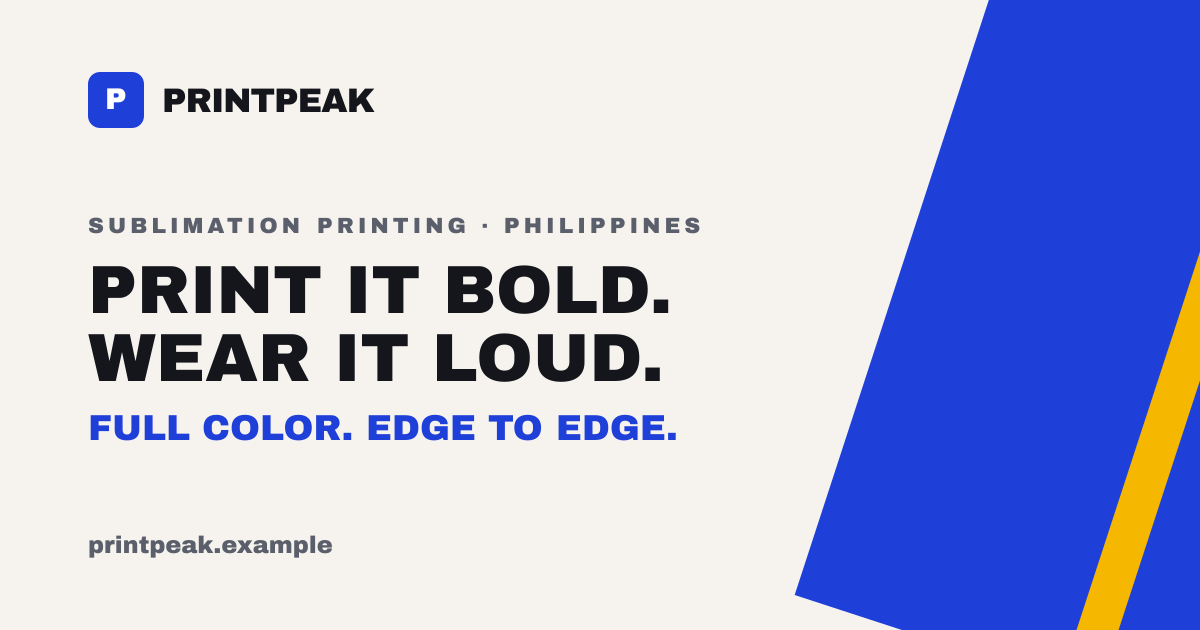
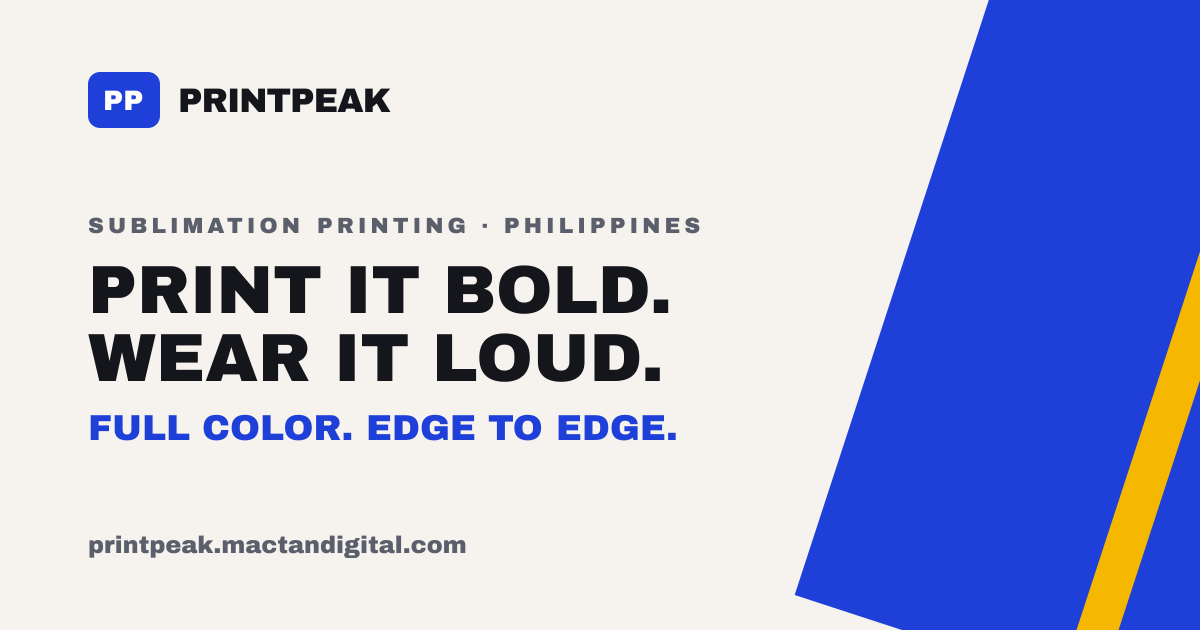
Use live domain printpeak.mactandigital.com and add preview link to README

Changed region(s): [[0.0925, 0.1206, 0.3392, 0.2111], [0.185, 0.8444, 0.4008, 0.9048]]

diff --git a/src/content/site.ts b/src/content/site.ts
@@ -38,7 +38,7 @@ export const site: SiteInfo = {
   tagline: "Full-color prints that never fade.",
   description:
     "Custom sublimation printing in the Philippines. Team jerseys, hoodies, mugs, lanyards and banners, printed in full color edge to edge.",
-  url: "https://printpeak.example", // TODO: real domain
+  url: "https://printpeak.mactandigital.com",
   locale: "en_PH",
   lang: "en-PH",
   country: "PH",

diff --git a/README.md b/README.md
@@ -1,6 +1,8 @@
 # PrintPeak Sublimation — sample website
 
-![PrintPeak share image](docs/og-preview.png)
+**Live preview: [printpeak.mactandigital.com](https://printpeak.mactandigital.com/)**
+
+[![PrintPeak share image](docs/og-preview.png)](https://printpeak.mactandigital.com/)
 
 A ready-to-customize, one-page website for a **full sublimation printing business**
 (jerseys, cycling and esports wear, hoodies, mugs, lanyards, banners).
@@ -89,13 +91,14 @@ scripts/        todos and asset checks
 ## Deploy
 
 1. Import the repo into [Vercel](https://vercel.com/new) (framework: Next.js, no environment variables needed).
-2. Add your domain and update `url` in `src/content/site.ts`.
+2. Add your domain and update `url` in `src/content/site.ts` (this demo uses `https://printpeak.mactandigital.com`).
 3. Turn on **Web Analytics** and **Speed Insights** in the Vercel project.
 4. Submit `https://your-domain/sitemap.xml` in Google Search Console.
 5. Test link previews with the Facebook Sharing Debugger and LinkedIn Post Inspector.
 
 ## Credits
 
+- Designed and built by [Mactan Digital](https://mactandigital.com).
 - Photos: [Unsplash](https://unsplash.com), under the [Unsplash License](https://unsplash.com/license). See `public/images/CREDITS.md`.
 - Fonts: Archivo Black, Inter and JetBrains Mono (SIL Open Font License), via Google Fonts.
 - Layout inspired by the look of a local Philippine print shop site. No code, text or images were copied.

diff --git a/CLAUDE.md b/CLAUDE.md
@@ -10,7 +10,7 @@ copy or images were copied.
 - Name: PrintPeak Sublimation · Tagline: "Full-color prints that never fade."
 - Products: team jerseys, cycling and esports wear, hoodies and long sleeves, mugs and tumblers, lanyards and caps, banners and flags
 - Area: Philippines, ships nationwide · Main action: Get a Quote (`site.quotePath` = `/#contact`)
-- Domain: printpeak.example (placeholder)
+- Domain (live preview): https://printpeak.mactandigital.com
 
 ## Voice
 - Bold and energetic, but plain English. Short sentences, everyday words, one idea per sentence.

diff --git a/docs/site-brief.md b/docs/site-brief.md
@@ -13,7 +13,7 @@
 - **Contact details:** obvious placeholders
 - **Extras:** sticky mobile contact bar, back to top button
 - **Tone:** bold and energetic
-- **Domain:** printpeak.example (placeholder)
+- **Domain:** https://printpeak.mactandigital.com (live preview)
 - **Form:** left blank for a third-party embed
 - **Photos:** free Unsplash stock (see public/images/CREDITS.md)
 - **Size chart:** sample values, marked to replace
